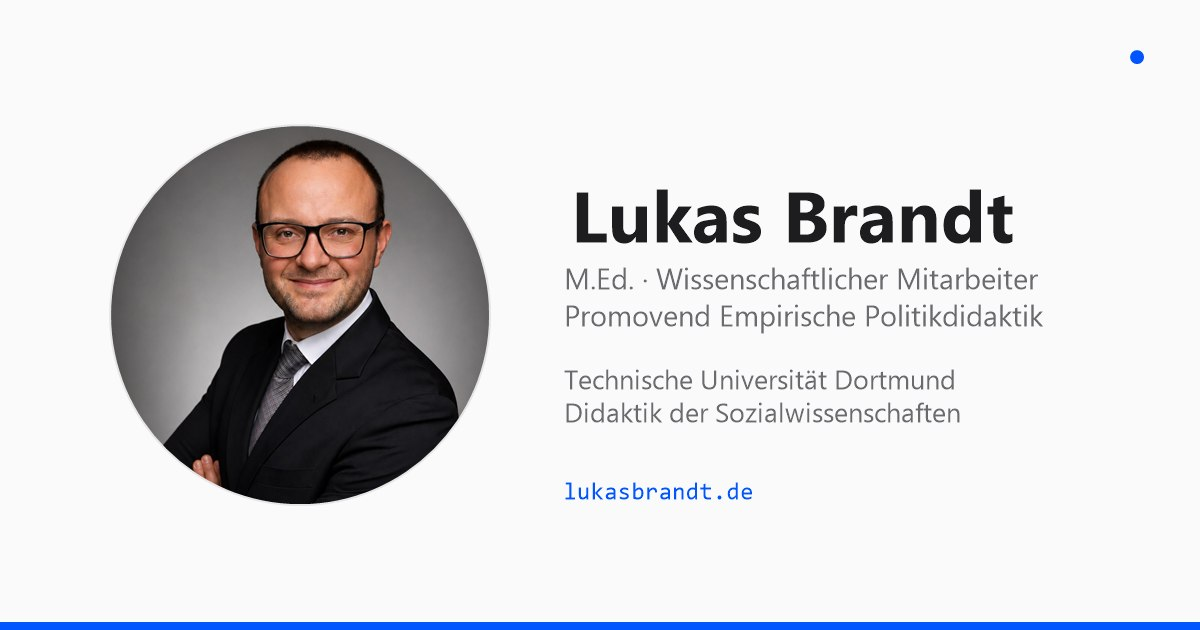
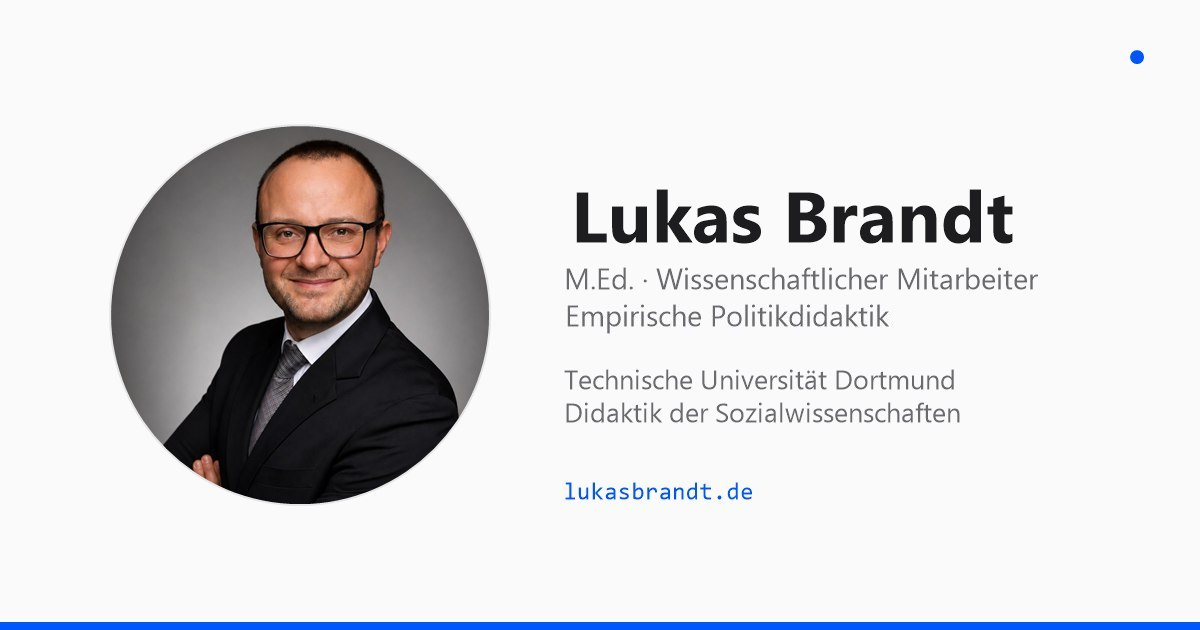
Kopf ohne Disputationszusatz, Vorschaubild ohne „Promovend“
Kopfzeile (DE und EN) und Seitenbeschreibungen nennen nur noch Stelle
und Thema; die Disputation bleibt als Sachangabe in der Diss-Karte
(Entscheidung Lukas, 05.11.2026). Im Vorschaubild og-image.jpg ist
„Promovend“ gestrichen, sonst unverändert. i18n.js?v=11, damit die
geänderten Übersetzungen (auch aus da006f7 und fc4362b) neu geladen
werden.

Changed region(s): [[0.4625, 0.4825, 0.8633, 0.5429]]

diff --git a/index.html b/index.html
@@ -4,10 +4,10 @@
     <meta charset="UTF-8">
     <meta name="viewport" content="width=device-width, initial-scale=1.0">
     <title>Lukas Brandt – Empirische Politikdidaktik</title>
-    <meta name="description" content="Lukas Brandt – Wissenschaftlicher Mitarbeiter für Empirische Politikdidaktik an der TU Dortmund, Disputation 2026 bestanden.">
+    <meta name="description" content="Lukas Brandt – Wissenschaftlicher Mitarbeiter für Empirische Politikdidaktik an der TU Dortmund.">
     <meta name="author" content="Lukas Brandt">
     <meta property="og:title" content="Lukas Brandt – Empirische Politikdidaktik">
-    <meta property="og:description" content="Wissenschaftlicher Mitarbeiter für Empirische Politikdidaktik an der TU Dortmund, Disputation 2026 bestanden.">
+    <meta property="og:description" content="Wissenschaftlicher Mitarbeiter für Empirische Politikdidaktik an der TU Dortmund.">
     <meta property="og:type" content="website">
     <meta property="og:url" content="https://lukasbrandt.de/">
     <meta property="og:site_name" content="lukasbrandt.de">
@@ -149,7 +149,7 @@
             <img src="profile.jpg" alt="Lukas Brandt" class="hero-avatar">
         </div>
         <h1 class="hero-name">Lukas Brandt</h1>
-        <p class="hero-role" data-i18n="hero.role">M.Ed. · Wissenschaftlicher Mitarbeiter · Empirische Politikdidaktik · Disputation 2026 bestanden</p>
+        <p class="hero-role" data-i18n="hero.role">M.Ed. · Wissenschaftlicher Mitarbeiter · Empirische Politikdidaktik</p>
         <p class="hero-bio" data-i18n="hero.bio">Ich erforsche, wie kooperative und kompetitive Diskussionsformate die politische Urteilsbildung im Politikunterricht beeinflussen — videobasiert, quasi-experimentell.</p>
         <div class="hero-affiliation">
             <span data-i18n="hero.affiliation">Technische Universität Dortmund</span>
@@ -303,7 +303,7 @@
     <a href="datenschutz.html" data-i18n="footer.privacy">Datenschutz</a>
 </div>
 
-<script src="i18n.js?v=10"></script>
+<script src="i18n.js?v=11"></script>
 <script>
 const toggle = document.getElementById('theme-toggle');
 const root = document.documentElement;

diff --git a/i18n.js b/i18n.js
@@ -4,7 +4,7 @@ const I18N_TRANSLATIONS = {
     "nav": { "about": "Über", "research": "Forschung", "publications": "Publikationen", "engagement": "Engagement", "contact": "Kontakt" },
     "skip": { "to_content": "Zum Inhalt springen" },
     "hero": {
-      "role": "M.Ed. · Wissenschaftlicher Mitarbeiter · Empirische Politikdidaktik · Disputation 2026 bestanden",
+      "role": "M.Ed. · Wissenschaftlicher Mitarbeiter · Empirische Politikdidaktik",
       "bio": "Ich erforsche, wie kooperative und kompetitive Diskussionsformate die politische Urteilsbildung im Politikunterricht beeinflussen — videobasiert, quasi-experimentell.",
       "affiliation": "Technische Universität Dortmund",
       "affiliation2": "Institut für Didaktik integrativer Fächer · Didaktik der Sozialwissenschaften",
@@ -86,7 +86,7 @@ const I18N_TRANSLATIONS = {
     "nav": { "about": "About", "research": "Research", "publications": "Publications", "engagement": "Engagement", "contact": "Contact" },
     "skip": { "to_content": "Skip to content" },
     "hero": {
-      "role": "M.Ed. · Research Associate · Empirical Civic Education · PhD defended 2026",
+      "role": "M.Ed. · Research Associate · Empirical Civic Education",
       "bio": "I study how cooperative and competitive discussion formats shape political judgement in civic education — video-based, quasi-experimental.",
       "affiliation": "TU Dortmund University",
       "affiliation2": "Institute for the Didactics of Integrative Subjects · Social Science Education",
